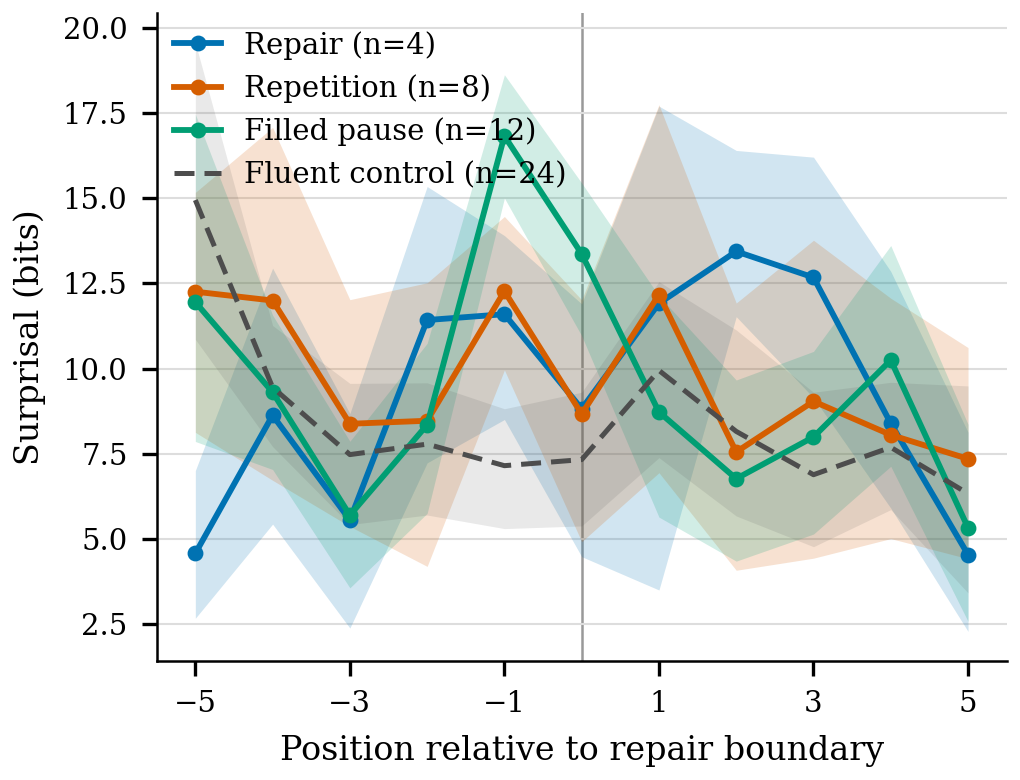
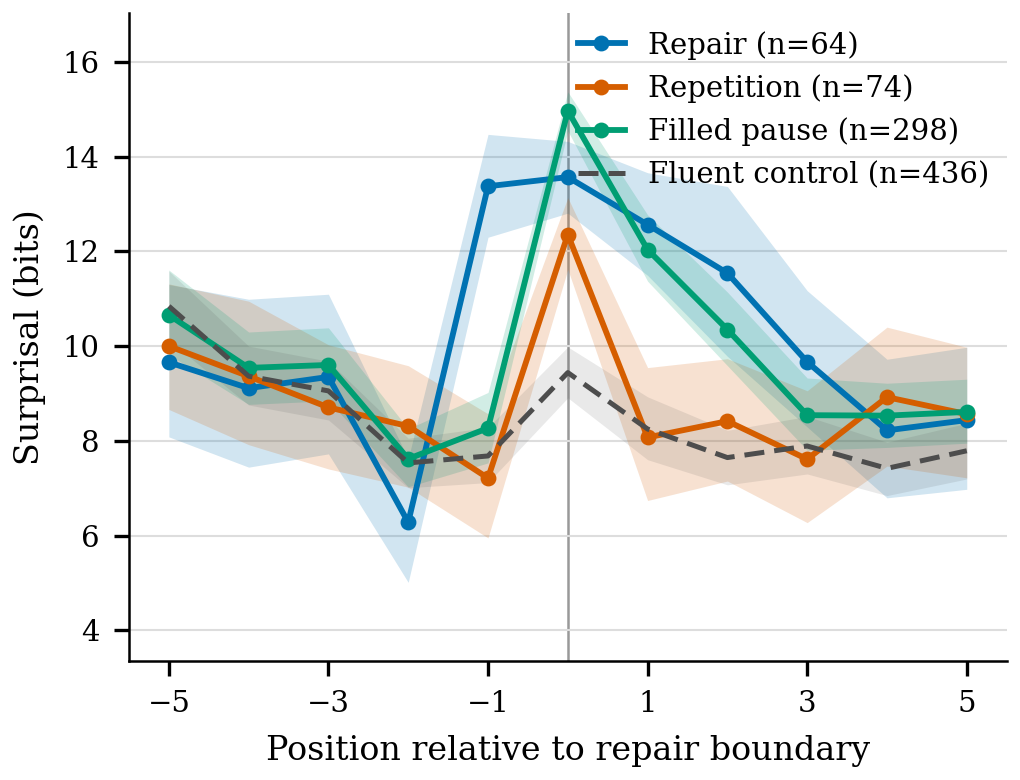
Add surprisal-at-repair-boundary analysis

diff --git a/mend/surprisal.py b/mend/surprisal.py
@@ -339,7 +339,8 @@ def make_figure(
     ax.set_axisbelow(True)
     for side in ("top", "right"):
         ax.spines[side].set_visible(False)
-    ax.legend(frameon=False, loc="upper left", handlelength=1.6, borderaxespad=0.2)
+    ax.margins(y=0.16)
+    ax.legend(frameon=False, loc="upper right", handlelength=1.6, borderaxespad=0.2)
     fig.tight_layout(pad=0.4)
 
     out_dir.mkdir(parents=True, exist_ok=True)
@@ -413,6 +414,12 @@ def main(argv: Optional[Sequence[str]] = None) -> int:
     print("\nSurprisal relative to the matched fluent control:")
     for line in lines:
         print("  " + line)
+    print(
+        "\n  Each figure is a per-instance paired difference against that "
+        "disfluency's\n  own control window. The dashed line in the figure pools "
+        "the control\n  windows of all three types, so reading a gap straight off "
+        "the plot will\n  not reproduce these numbers exactly."
+    )
     print(f"\nwrote {pdf} and {png}")
 
     (args.out / "surprisal_effects.json").write_text(json.dumps(report, indent=2))
